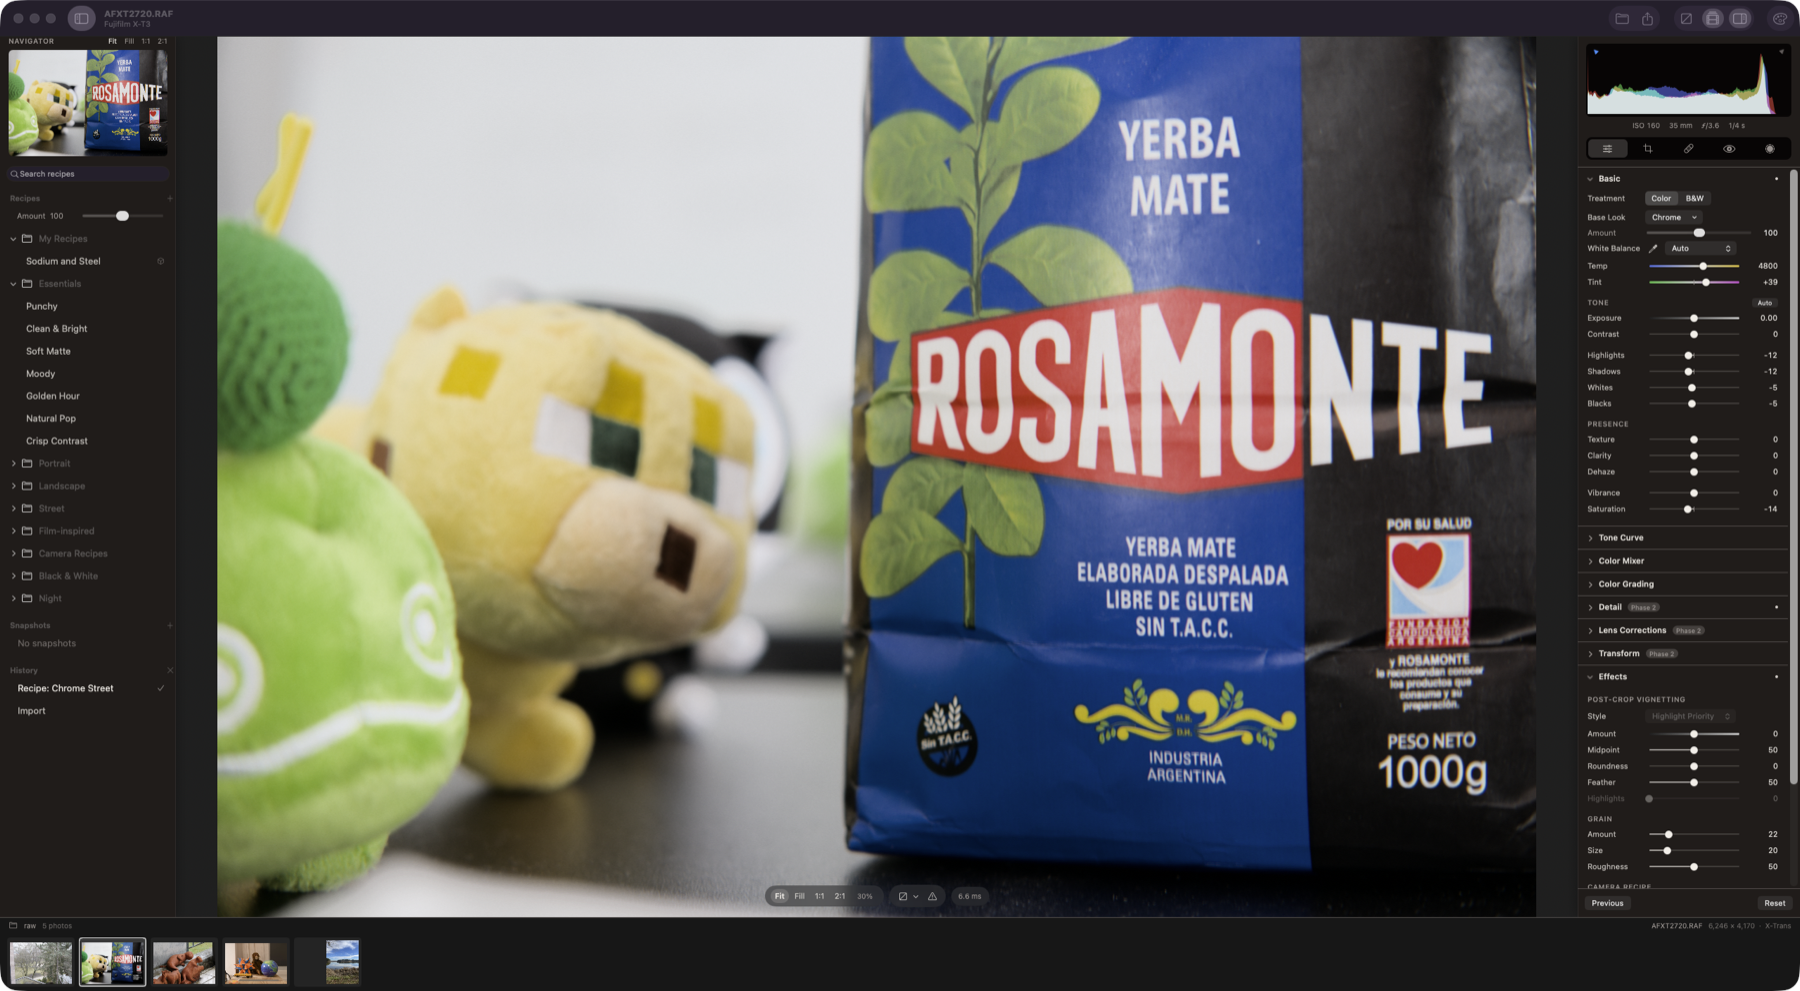
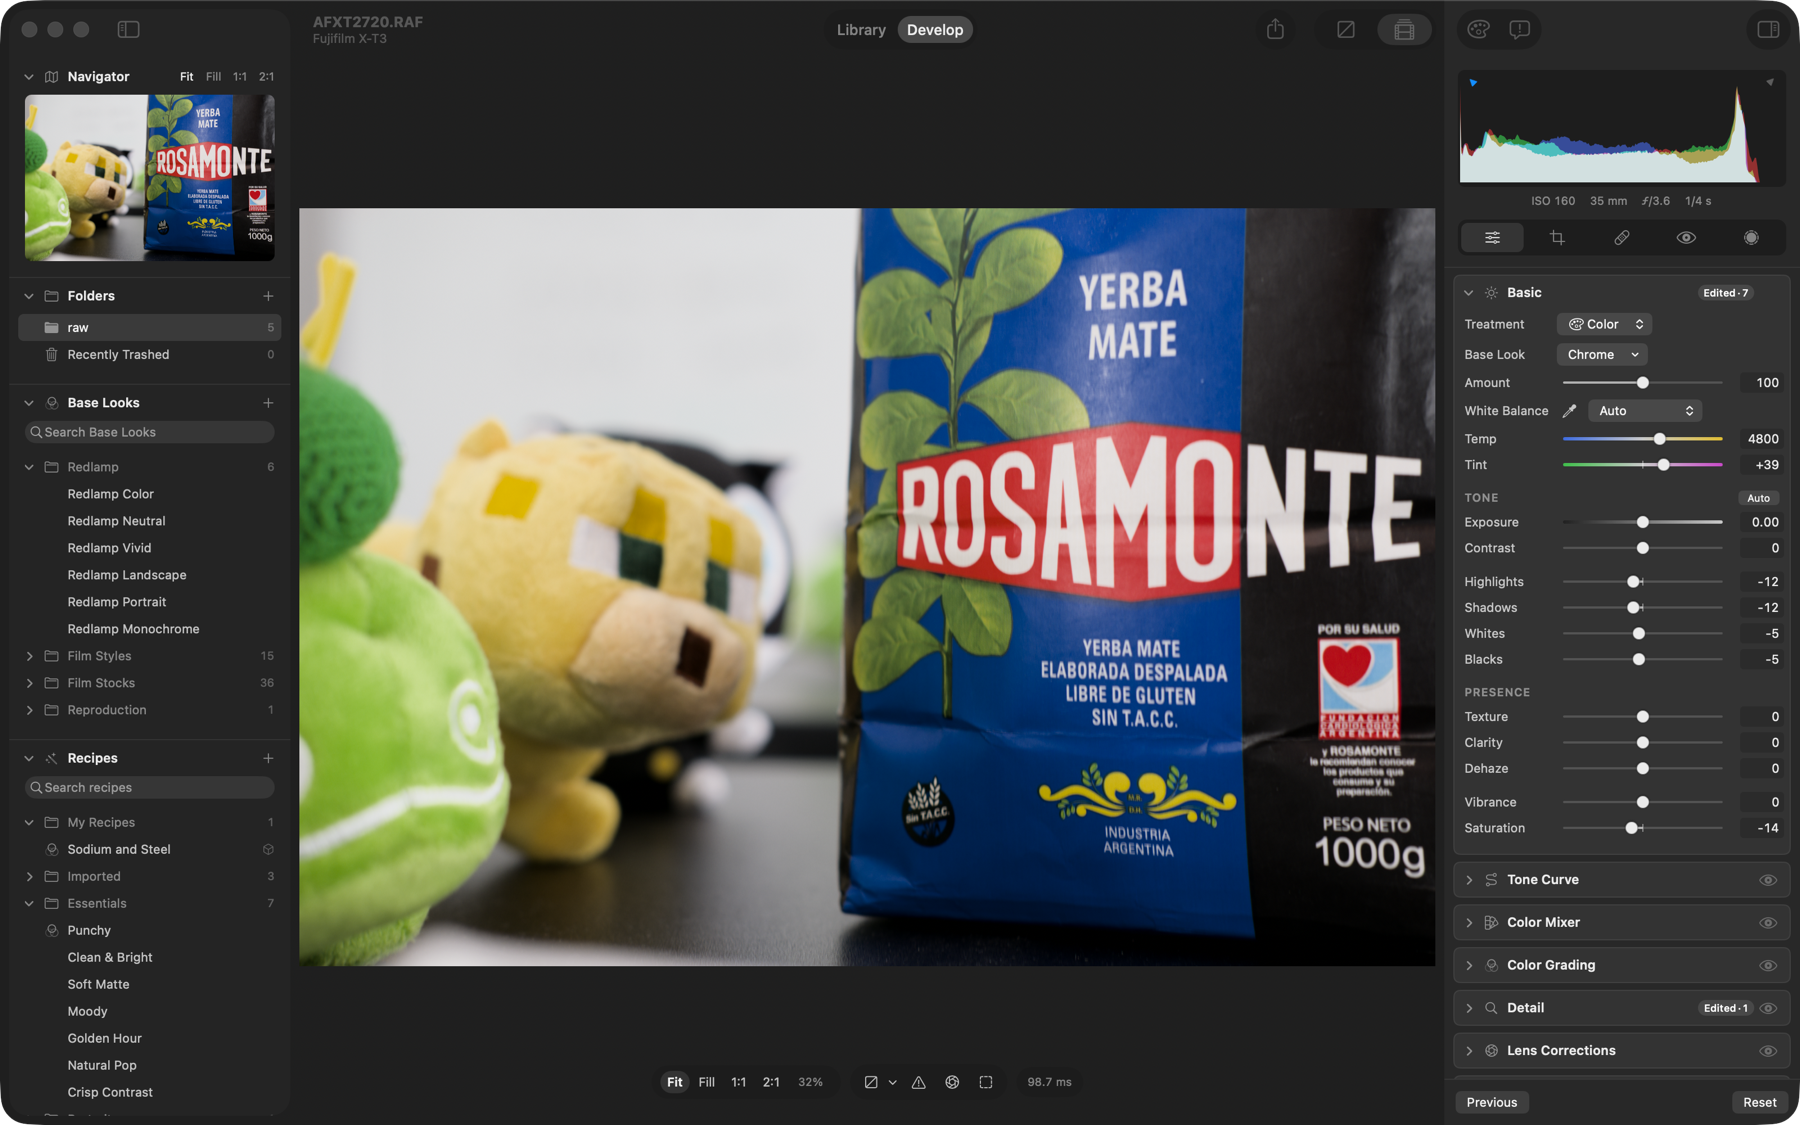
Screenshots: the Recipes shot retaken with Base Looks above Recipes, and captures leave out the experimental firmware model, which changed the look a camera recipe resolves to (UX-54, #469)

diff --git a/README.md b/README.md
@@ -816,7 +816,7 @@ Kodak, Portra, Ektar, Gold, Vision3, Tri-X, Fujifilm, Superia, Provia, Velvia, I
 
 ![Color grading](docs/images/color-grading.png)
 
-**A camera recipe on a Fujifilm X-T3 RAF.** Chrome Street, built from a Fujifilm-style recipe card, on the measured Chrome Base Look. The recipe's Amount is in the Recipes panel, and its tone, Color Chrome and grain settings land in the Basic and Effects panels like any other edit.
+**A camera recipe on a Fujifilm X-T3 RAF.** Chrome Street, built from a Fujifilm-style recipe card, on the measured Chrome Base Look. Base Looks is above Recipes in the left column, and the recipe's tone, Color Chrome and grain settings land in the Basic and Effects panels like any other edit.
 
 ![A camera recipe](docs/images/recipes.png)
 
